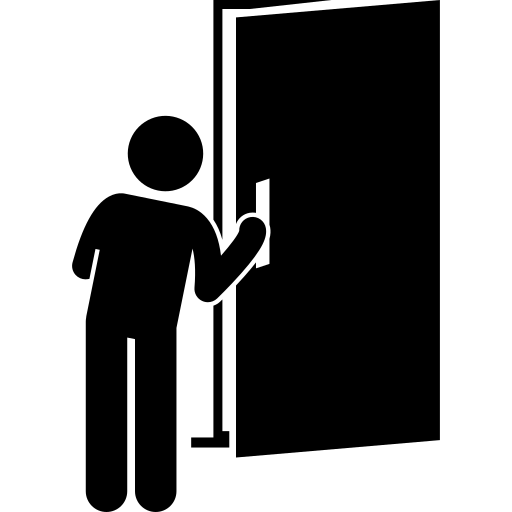
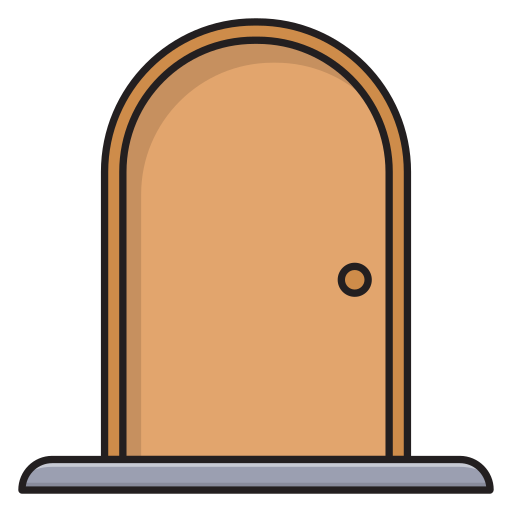
Feat: Added skeleton to components for loading state

diff --git a/src/components/employee/dashboard/rank-panel.tsx b/src/components/employee/dashboard/rank-panel.tsx
@@ -113,6 +113,7 @@ import { useGetEmployeeRank } from '@/hooks/tanstack/queries/employeeQueries';
 import { useQuery } from '@tanstack/react-query';
 import { getEmployeeXP } from '@/actions/employee/stats';
 import type { EmployeeRank } from '@/types';
+import { RankWidgetSkeleton } from '../attendance/skeletons';
 
 interface RankWidgetProps {
   isCollapsed?: boolean;
@@ -120,18 +121,11 @@ interface RankWidgetProps {
 
 const rankViews = ['weekly', 'monthly', 'yearly'];
 
-/**
- * Main Rank Widget Renderer
- * Fetches employee rank + XP and displays them consistently
- */
 export function RankWidget({ isCollapsed }: RankWidgetProps) {
   const [hovered, setHovered] = useState(false);
   const [currentViewIndex, setCurrentViewIndex] = useState(0);
 
-  // Fetch employee rank
   const { data: rankData, isLoading: isRankLoading } = useGetEmployeeRank();
-
-  // Fetch employee XP
   const { data: xpResult, isLoading: isXpLoading } = useQuery({
     queryKey: ['employeeXP'],
     queryFn: async () => {
@@ -142,34 +136,23 @@ export function RankWidget({ isCollapsed }: RankWidgetProps) {
   });
 
   const totalXP = xpResult?.totalXP ?? 0;
-
   const currentView = rankViews[currentViewIndex];
 
   const handlePrev = () => {
     setCurrentViewIndex((prev) => (prev === 0 ? rankViews.length - 1 : prev - 1));
   };
-
   const handleNext = () => {
     setCurrentViewIndex((prev) => (prev === rankViews.length - 1 ? 0 : prev + 1));
   };
 
-  // Loading state
+  // ✅ Use skeleton while loading
   if (isRankLoading || isXpLoading) {
-    return (
-      <div className="bg-[#765332] border-[#47331F] rounded-lg p-4 mb-4 animate-pulse">
-        <div className="flex items-center justify-between mb-2">
-          <ChevronLeft className="text-[#9E9985] w-5 h-5" />
-          <span className="text-yellow-500 font-bold capitalize">{currentView}</span>
-          <ChevronRight className="text-[#9E9985] w-5 h-5" />
-        </div>
-        <p className="text-sm text-[#F5E8D6]">Loading...</p>
-      </div>
-    );
+    return <RankWidgetSkeleton />;
   }
 
   if (!rankData) {
     return (
-      <div className="bg-[#765332] border-[#47331F] rounded-lg p-4 mb-4">
+      <div className="bg-[#765332] border-3 border-[#47331F] rounded-lg p-4 mb-4">
         <div className="flex items-center justify-between mb-2">
           <button onClick={handlePrev}>
             <ChevronLeft className="text-[#9E9985] w-5 h-5" />
@@ -187,7 +170,6 @@ export function RankWidget({ isCollapsed }: RankWidgetProps) {
   const { rank } = rankData as EmployeeRank;
 
   if (isCollapsed) {
-    // Compact circle view
     return (
       <div
         className="bg-[#765332] border-[#47331F] rounded-full h-16 w-16 mx-auto flex flex-col items-center justify-center mb-4 transition-all duration-200"
@@ -204,10 +186,8 @@ export function RankWidget({ isCollapsed }: RankWidgetProps) {
     );
   }
 
-  // Expanded card view
   return (
     <div className="bg-[#765332] rounded-lg p-4 border-3 border-[#47331F] mb-4">
-      {/* Header with arrows + view */}
       <div className="flex items-center justify-between mb-2">
         <button onClick={handlePrev}>
           <ChevronLeft className="text-[#9E9985] w-5 h-5" />
@@ -218,7 +198,6 @@ export function RankWidget({ isCollapsed }: RankWidgetProps) {
         </button>
       </div>
 
-      {/* Rank + XP */}
       <div className="flex items-center gap-3 mb-2">
         <div className="bg-white/20 rounded-full p-2 shrink-0 flex items-center justify-center">
           <Trophy size={20} className="text-yellow-500" />

diff --git a/src/components/employee/attendance/profile-level.tsx b/src/components/employee/attendance/profile-level.tsx
@@ -4,16 +4,22 @@ import { useState, useEffect, useMemo } from 'react';
 import { handleFetchEmployeeXP } from '@/action-handlers/employees';
 import { useGetSessionUser } from '@/hooks/tanstack/queries/userQueries';
 import type { EmployeeXP } from '@/types';
+import { ProfileLevelSkeleton } from './skeletons';
+import { ProfileModal } from '@/components/sidebar/profile-modal';
 
 export default function ProfileLevelCard() {
   const [xpData, setXpData] = useState<EmployeeXP | null>(null);
-  const { data: user } = useGetSessionUser();
+  const { data: user, isLoading: userLoading } = useGetSessionUser();
   const [hasImage, setHasImage] = useState(true);
+  const [loadingXP, setLoadingXP] = useState(true);
+  const [modalOpen, setModalOpen] = useState(false);
 
   useEffect(() => {
     async function fetchXP() {
+      setLoadingXP(true);
       const data = await handleFetchEmployeeXP();
       setXpData(data);
+      setLoadingXP(false);
     }
     fetchXP();
   }, []);
@@ -37,27 +43,41 @@ export default function ProfileLevelCard() {
   const level = xpData?.level ?? 0;
   const name = user?.name ?? 'Employee';
 
+  const isLoading = userLoading || loadingXP;
+
+  if (isLoading) {
+    return <ProfileLevelSkeleton />;
+  }
+
   return (
-    <div className="inline-flex items-center bg-[#765332] border-3 border-[#47331F] rounded-lg shadow-md p-2">
-      {/* Avatar Circle */}
-      <div className="w-12 h-12 rounded-full bg-[#E89C30] flex items-center justify-center border-2 border-[#47331F] shrink-0 mr-3 overflow-hidden">
-        {imageUrlWithCacheBust && hasImage ? (
-          <img
-            src={imageUrlWithCacheBust}
-            alt={user?.name || 'User profile'}
-            className="w-full h-full rounded-full object-cover"
-            onError={() => setHasImage(false)}
-          />
-        ) : (
-          <span className="text-base font-bold text-[#690003]">{initials}</span>
-        )}
+    <>
+      <div className="inline-flex items-center bg-[#765332] border-3 border-[#47331F] rounded-lg shadow-md p-2">
+        {/* Avatar Circle with onClick */}
+        <div
+          onClick={() => setModalOpen(true)}
+          className="w-12 h-12 rounded-full bg-[#E89C30] flex items-center justify-center border-2 border-[#47331F] shrink-0 mr-3 overflow-hidden cursor-pointer hover:scale-105 transition-transform"
+        >
+          {imageUrlWithCacheBust && hasImage ? (
+            <img
+              src={imageUrlWithCacheBust}
+              alt={user?.name || 'User profile'}
+              className="w-full h-full rounded-full object-cover"
+              onError={() => setHasImage(false)}
+            />
+          ) : (
+            <span className="text-base font-bold text-[#690003]">{initials}</span>
+          )}
+        </div>
+
+        {/* Profile name + level */}
+        <div className="flex flex-col">
+          <span className="text-xl font-semibold text-[#F5E8D6]">{name}</span>
+          <span className="text-lg font-medium text-[#9E9985]">Lv. {level}</span>
+        </div>
       </div>
 
-      {/* Profile name + level */}
-      <div className="flex flex-col">
-        <span className="text-xl font-semibold text-[#F5E8D6]">{name}</span>
-        <span className="text-lg font-medium text-[#9E9985]">Lv. {level}</span>
-      </div>
-    </div>
+      {/* Modal */}
+      <ProfileModal open={modalOpen} onOpenChange={setModalOpen} user={user || null} />
+    </>
   );
 }

diff --git a/src/components/employee/attendance/skeletons.tsx b/src/components/employee/attendance/skeletons.tsx
@@ -1,0 +1,67 @@
+'use client';
+
+export function XPProgressSkeleton() {
+  return (
+    <div className="w-60 max-w-5xl bg-[#765332] rounded-lg shadow-md border-3 border-[#47331F] p-2 py-0 flex flex-col items-center">
+      {/* XP text skeleton */}
+      <div className="w-full flex justify-start m-2">
+        <div className="w-32 h-6 bg-[#d9b77a] animate-pulse rounded" />
+      </div>
+
+      {/* Progress bar skeleton */}
+      <div className="w-full">
+        <div className="h-5 bg-[#273A27] border-2 border-[#47331F] rounded-sm overflow-hidden">
+          <div className="h-full w-full bg-[#d9b77a] animate-pulse" />
+        </div>
+      </div>
+
+      {/* Points row skeleton */}
+      <div className="w-full flex items-center gap-2 m-2">
+        <div className="w-5 h-5 bg-[#d9b77a] animate-pulse rounded-full" />
+        <div className="w-20 h-5 bg-[#d9b77a] animate-pulse rounded" />
+      </div>
+    </div>
+  );
+}
+
+export function ProfileLevelSkeleton() {
+  return (
+    <div className="inline-flex items-center bg-[#765332] border-3 border-[#47331F] rounded-lg shadow-md p-2">
+      {/* Avatar circle skeleton */}
+      <div className="w-12 h-12 rounded-full bg-[#E89C30] flex items-center justify-center border-2 border-[#47331F] shrink-0 mr-3 overflow-hidden">
+        <div className="w-full h-full animate-pulse bg-[#d9b77a] rounded-full" />
+      </div>
+
+      {/* Name + level skeleton */}
+      <div className="flex flex-col">
+        <div className="w-24 h-4 bg-[#d9b77a] animate-pulse rounded mb-1" />
+        <div className="w-16 h-3 bg-[#d9b77a] animate-pulse rounded" />
+      </div>
+    </div>
+  );
+}
+
+export function RankWidgetSkeleton() {
+  return (
+    <div className="bg-[#765332] border-3 border-[#47331F] rounded-lg p-4 mb-4">
+      {/* Header skeleton */}
+      <div className="flex items-center justify-between mb-2">
+        <div className="w-5 h-5 bg-[#d9b77a] animate-pulse rounded" />
+        <div className="w-16 h-5 bg-[#d9b77a] animate-pulse rounded" />
+        <div className="w-5 h-5 bg-[#d9b77a] animate-pulse rounded" />
+      </div>
+
+      {/* Trophy + rank skeleton */}
+      <div className="flex items-center gap-3 mb-2">
+        <div className="w-10 h-10 bg-[#d9b77a] animate-pulse rounded-full" />
+        <div className="flex flex-col gap-1">
+          <div className="w-20 h-5 bg-[#d9b77a] animate-pulse rounded" />
+        </div>
+      </div>
+
+      {/* XP line skeleton */}
+      <div className="w-32 h-4 bg-[#d9b77a] animate-pulse rounded" />
+    </div>
+  );
+}
+

diff --git a/src/components/employee/attendance/xp-points.tsx b/src/components/employee/attendance/xp-points.tsx
@@ -3,35 +3,44 @@
 import { useEffect, useState } from 'react';
 import { handleFetchEmployeeXP, handleFetchEmployeePoints } from '@/action-handlers/employees';
 import type { EmployeeXP, EmployeePointsData } from '@/types';
+import { XPProgressSkeleton } from './skeletons';
 
 export default function XPProgress() {
   const [xpData, setXpData] = useState<EmployeeXP | null>(null);
   const [pointsData, setPointsData] = useState<EmployeePointsData | null>(null);
+  const [loading, setLoading] = useState(true);
 
   useEffect(() => {
     async function fetchData() {
+      setLoading(true);
       const [xp, pts] = await Promise.all([
         handleFetchEmployeeXP(),
         handleFetchEmployeePoints(),
       ]);
       setXpData(xp);
       setPointsData(pts);
+      setLoading(false);
     }
     fetchData();
   }, []);
 
+  if (loading) {
+    // ✅ Show skeleton while loading
+    return <XPProgressSkeleton />;
+  }
+
   const currentXP = xpData?.currentXP ?? 0;
-  const maxXp = 500; // matches screenshot
+  const maxXp = 100; // matches screenshot
   const totalPts = pointsData ? pointsData.points - pointsData.deductedPoints : 0;
 
   return (
     <div className="w-60 max-w-5xl bg-[#765332] rounded-lg shadow-md border-3 border-[#47331F] p-2 py-0 flex flex-col items-center">
       {/* XP text above progress bar */}
       <div className="w-full text-xl text-yellow-500 text-left">
-        XP: {currentXP} / {maxXp} 
+        XP: {currentXP} / {maxXp}
       </div>
 
-      {/* Progress bar - stretched horizontally */}
+      {/* Progress bar */}
       <div className="w-full">
         <div className="h-5 bg-[#273A27] border-2 border-[#47331F] rounded-sm overflow-hidden">
           <div
@@ -41,8 +50,8 @@ export default function XPProgress() {
         </div>
       </div>
 
-      {/* Points with star icon under progress bar */}
-      <div className="w-full flex items-center gap-2 text-xl text-yellow-500">
+      {/* Points with star icon */}
+      <div className="w-full flex items-center gap-2 text-xl text-yellow-500 mt-2">
         <span className="text-yellow-500">★</span>
         <span>{totalPts} pts</span>
       </div>

diff --git a/src/components/employee/attendance/logout.tsx b/src/components/employee/attendance/logout.tsx
@@ -62,24 +62,33 @@ export const LogOutBtn = memo(function LogOutBtn() {
   return (
     <div
       onClick={handleLogout}
-      className={`cursor-pointer inline-flex items-center justify-center transition-all duration-300 
+      className={`inline-flex items-center bg-[#765332] border-3 border-[#47331F] rounded-lg shadow-md p-2 cursor-pointer transition-all duration-300 
         ${isPending || isNavigating || isLoggingOut ? 'opacity-60 cursor-not-allowed' : 'hover:scale-105'}
       `}
     >
-      {isLoggingOut ? (
-        <span className="inline-flex items-center gap-2 text-[#690003] font-semibold">
-          <span>Goodbye</span>
-          <span ref={waveRef} className="inline-flex items-center">
-            <Hand className="size-4" />
+      {/* Icon / Goodbye text */}
+      <div className="flex items-center justify-center w-12 h-12 rounded-full bg-[#E89C30] border-2 border-[#47331F] shrink-0 mr-3 overflow-hidden">
+        {isLoggingOut ? (
+          <span ref={waveRef} className="inline-flex items-center text-[#690003]">
+            <Hand className="size-6" />
           </span>
-        </span>
-      ) : (
-        <img
-          src="/assets/door1.png"
-          alt="Logout door"
-          className="w-30 h-30"
-        />
-      )}
+        ) : (
+          <img
+            src="/assets/door.png"
+            alt="Logout door"
+            className="w-full h-full object-contain"
+          />
+        )}
+      </div>
+
+      {/* Label */}
+      <div className="flex flex-col">
+        {isLoggingOut ? (
+          <span className="text-xl font-jersey text-[#F5E8D6]">Goodbye</span>
+        ) : (
+          <span className="text-xl font-jersey text-[#F5E8D6]">Logout</span>
+        )}
+      </div>
     </div>
   );
 });
